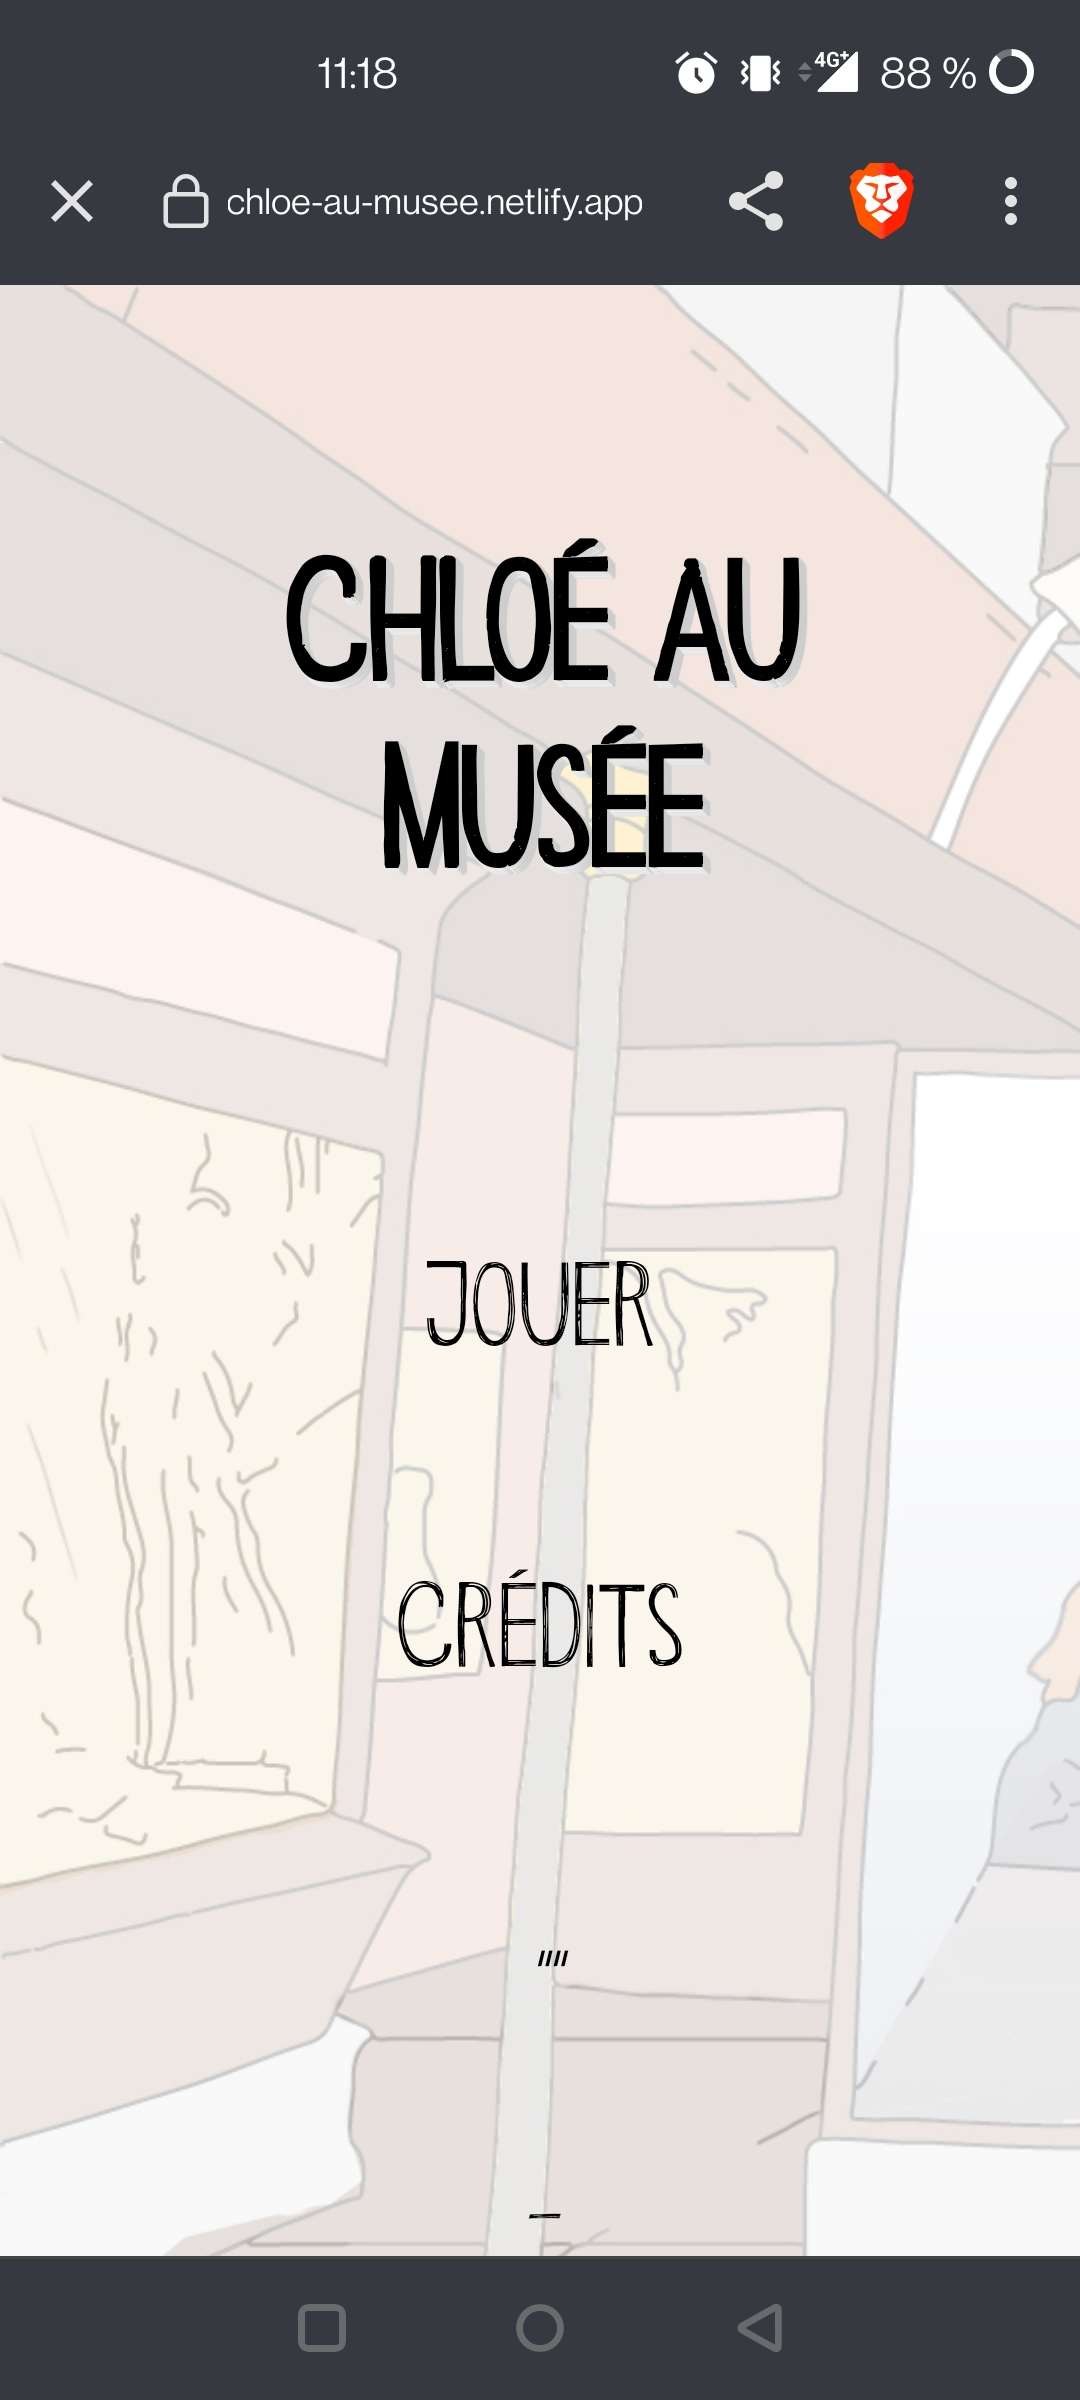
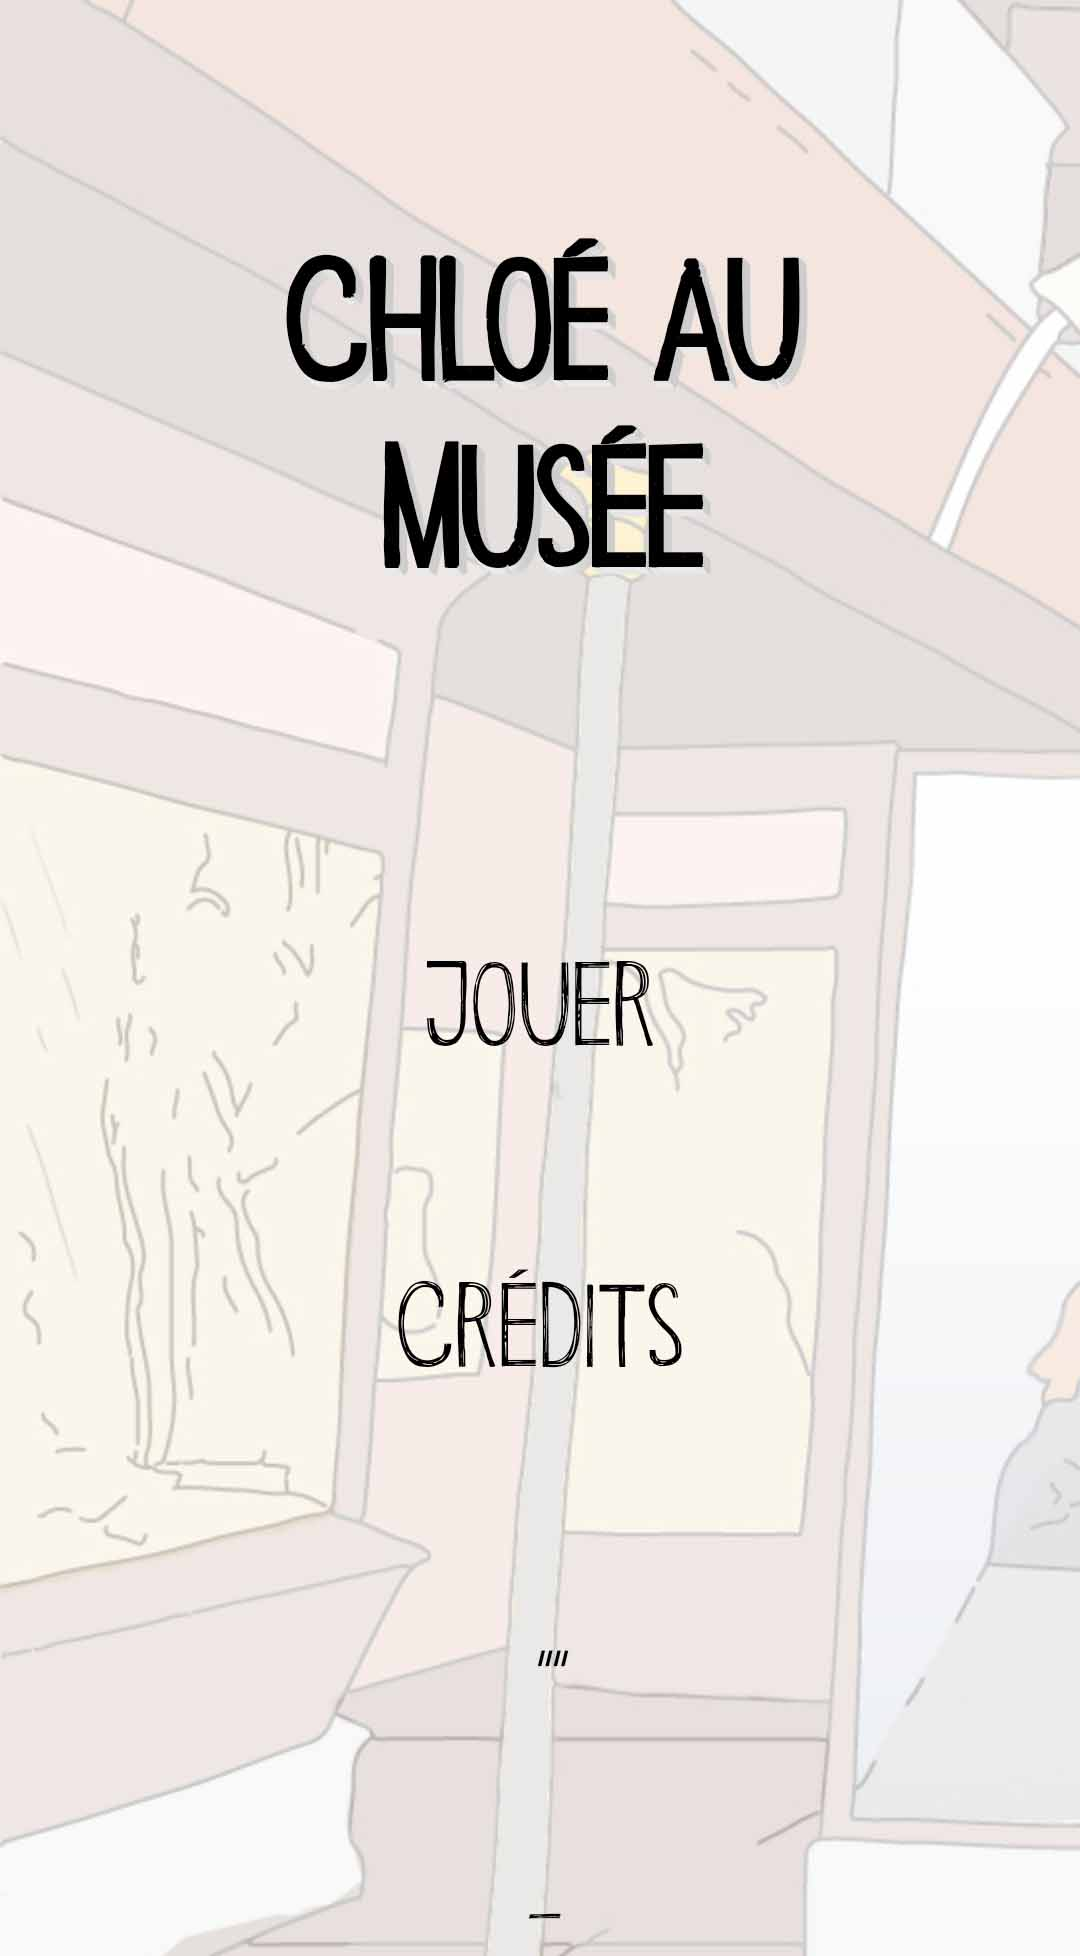
ajout page chloe au musee

diff --git a/html/projects/video-games/chloe-au-musee.html b/html/projects/video-games/chloe-au-musee.html
@@ -1,0 +1,64 @@
+<!DOCTYPE html>
+<html lang="en">
+<head>
+    <meta charset="UTF-8">
+    <meta http-equiv="X-UA-Compatible" content="IE=edge">
+    <meta name="viewport" content="width=device-width, initial-scale=1.0">
+    <title>Alvina DR - Portfolio | Chloée au musée</title>
+
+    <link rel="stylesheet" href="../../../css/main.css">
+    <link rel="stylesheet" href="../../../css/text.css">
+    <link rel="stylesheet" href="../../../css/navbar.css">
+    <link rel="stylesheet" href="../../../css/footer.css">
+    <link rel="stylesheet" href="../../../css/page-specific-project.css">
+
+</head>
+<body>
+    <div class="cursor-default cursor-hidden"></div>
+
+    <!-- NAVBAR -->
+    <div class="grid grid-header"></div>
+    <navbar>
+        <ul class="nav-ul">
+            <li class="nav-link"><a href="../../../index.html">Work</a></li>
+            <li class="nav-link"><a href="../../about.html">About</a></li>
+            <li class="nav-link"><a href="../../contact.html">Contact</a></li>
+        </ul>
+    </navbar>  
+    
+    <div class="grid grid-chloe-au-musee"></div>
+    <section id="landing-section">
+        <h1>Alvina DR</h1>
+        <p>2022</p>
+        <br>
+    </section>
+
+<!------------------------------------------------------ PHOTOMONTAGES -------------------------------------------->
+
+    <section id="ftwb-section" class="div-row">
+            <div class="div-column">
+                <h3>Chloé au musée</h3>
+                <p>During the project "Rêve et Ville" ("Dream and City") at the beginning of year 2022, I had the opportunity to create an interactive experience about the Musée des Beaux-Arts of Bordeaux. We worked in team of five and I specialized in the JS development using Phaser3. It was a completely new tech for me and I learned a lot in little time. Then again, the freeCodeCamp JS formation was pretty useful.</p><br>
+                <img src="../../../img/video-games/chloe-au-musee/cam-gameplay1.gif" style="width: 100%;"><br>
+                <p>One of the peculiarities of this game was that it needed to be playable from a phone since it was made for the visitors of the museum (who didn't have a computer access). So we had to make sure that it was as responsive as possible.</p><br>
+                <p>Only con was that the sound design was sketchy as it had been done at the last moment and under hard time constraints.</p><br>
+                <a class="btn1" href="https://chloe-au-musee.netlify.app/" target="_blank">Discover the game</a>
+            </div>
+            <div class="div-column" style="width: 40%; margin-left : 10px;">
+                <div class="div-row" style="width: 100%;">
+                    <img src="../../../img/video-games/chloe-au-musee/chloe-au-musee-phone1.jpg" style="width: 49%;">
+                    <img src="../../../img/video-games/chloe-au-musee/chloe-au-musee-phone2.jpg" style="width: 49%;">
+                </div><br>
+                <img src="../../../img/video-games/chloe-au-musee/chloe-au-musee1.png"><br>
+            </div>
+    </section>
+
+    <!-- FOOTER -->
+    <footer>
+        <div class="grid grid-footer"></div>
+        <p>Made by Alvina Damasio--Razafiarizaka</p>
+    </footer>
+    <script src="../../../js/mouse-cursor.js"></script>
+
+</body>
+</html>

diff --git a/data/video-games.js b/data/video-games.js
@@ -33,7 +33,7 @@ var videoGameDatas =
     {
         "name" : "Chloé au musée",
         "image1": "../../img/video-games/chloe-au-musee.jpg",
-        "link": "../../html/about.html",
+        "link": "video-games/chloe-au-musee.html",
         "filter-type": "school"
     },
     {

diff --git a/css/page-specific-project.css b/css/page-specific-project.css
@@ -92,3 +92,10 @@
     width: calc(3vw*30 + .1em);
     height: calc(3vw * 15 + .1em);
 }
+
+.grid-chloe-au-musee {
+    margin-top: 120px;
+    margin-bottom: 100px;
+    width: calc(3vw*30 + .1em);
+    height: calc(3vw * 20 + .1em);
+}
